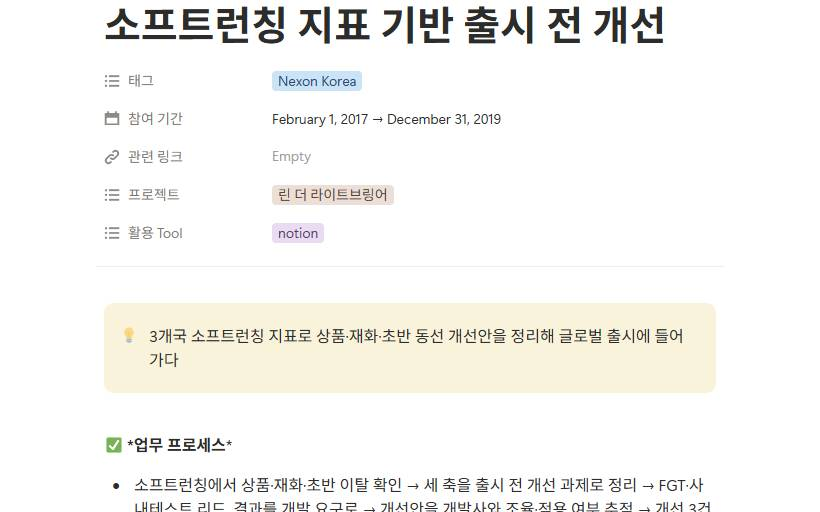
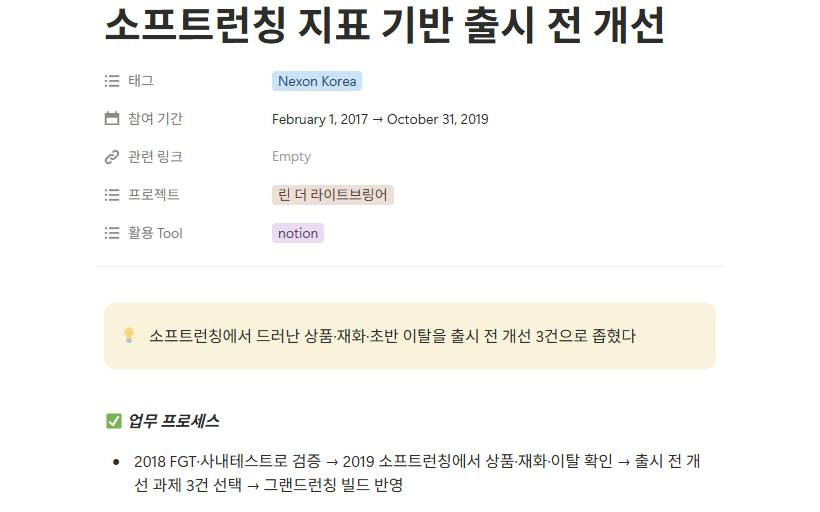
WO-19 ② 카피·Notion 정정·근거 요약 (Codex R6 10~13)
- EN "both prototypes shipped" → "the events developed from these prototypes shipped"
  (시안 자체가 출시된 것처럼 읽혔다). EN 히어로 요약에 디렉터 협업 책임 문장 복원, 첫 문장을
  줄여 390 6줄 유지(KO 6줄)
- Notion 대표 사례 ④ 참여 기간 종료 2019-12-31 → 2019-10-31(재직 종료와 일치),
  ④⑤ 업무 프로세스 체인을 시간순으로(린 2018 테스트 → 2019 소프트런칭 → 개선 → 그랜드런칭 /
  나이트워커 연동 기획 → 2023-01 출시 → 프로모션 추가)
- 신규 5장의 💡 요약을 제목 반복 대신 "문제 → 선택 → 반영 결과" 전용 문장으로 고쳐 쓰고
  build-evidence 재실행(32/32) — KO 요약 37~46자·체인 77~87자, EN 요약 67~77자·체인 85~90자로
  카드 상한(80/90) 안에 들어와 결론 전에 말줄임이 나지 않는다
- 사례 상세창 제목은 앞 절만(KO 17~19자), 원고 전체 제목은 본문 첫 행 "한 줄 요약"으로 내렸다.
  빈 성과칸이 접히면서 상단 여백도 사라졌다. build-print의 행 수 검사도 7행으로

Claude-Session: https://claude.ai/code/session_01MgNpmvX4FuUabFS9uFy84n

Changed region(s): [[0.122, 0.625, 0.8841, 1.0], [0.4573, 0.2188, 0.6098, 0.25]]

diff --git a/site/en/index.html b/site/en/index.html
@@ -744,7 +744,7 @@ html.is-modal{overflow:hidden;padding-right:var(--sbw,0px)}
         <span class="line" style="--i:2"><span>into shipped work.</span></span>
       </h1>
 
-      <p class="hero-sub" data-reveal data-gate="ready" style="--rd:650ms">19 years in PC and mobile games — global launches and live ops. I turn user research and live metrics into product direction and dev priorities, and ran the dev milestones as a director. Lately I prototype events with AI and automate routine work.</p>
+      <p class="hero-sub" data-reveal data-gate="ready" style="--rd:650ms">19 years in games — global launches and live ops. I turn user research and live metrics into product direction and dev priorities, and as a director I ran dev milestones and cross-team work. Lately I prototype events with AI and automate routine work.</p>
 
       <ul class="hero-keys" data-reveal data-gate="ready" style="--rd:700ms" aria-label="Core strengths">
         <li>Product decisions & milestones</li>
@@ -934,7 +934,7 @@ html.is-modal{overflow:hidden;padding-right:var(--sbw,0px)}
           <div class="card-wm" aria-hidden="true">11→7</div>
           <div class="card-bot">
             <h3><button class="card-open" type="button" data-work="dalcom" aria-haspopup="dialog">Multi-title live operations and user-led product work<span class="sr-only"> View details</span><svg class="ic" aria-hidden="true"><use href="#i-arrup"/></svg></button></h3>
-            <p>Managed live game design and the dev milestones while the titles I owned went from 11 to 7. Turned the satisfaction survey into the 2026 product direction and into webview and decoration event prototypes — both prototypes shipped.</p>
+            <p>Managed live game design and the dev milestones while the titles I owned went from 11 to 7. Turned the satisfaction survey into the 2026 product direction and into webview and decoration event prototypes — the events developed from these prototypes shipped.</p>
             <div class="card-tags"><span class="tag">Live Director</span><span class="tag">VOC → product direction</span><span class="tag">AI prototype</span><span class="tag">Dev milestones</span></div>
             <p class="card-rights">Game names and images are trademarks and copyrighted works of Dalcomsoft.</p>
           </div>
@@ -1745,9 +1745,10 @@ document.querySelectorAll('[data-notion-hub]').forEach(a => { a.href = NOTION_HU
 /* 내용은 팩트시트(2026-08-11)에서만. §1 직위 · §2 B1~B9 · §3 A2. 창작·추가 수치 금지. */
 const WORKS = {
   /* 대표 사례 3 — 원고 v0.5 공개 문안 그대로. 사례는 숫자가 아니라 서사라 s[]는 비운다. */
-  case1: { m:'Dalcomsoft · Live Game Design Team — Team Lead', t:'Turned the survey request for webview events into shipped in-game minigames and webview events',
+  case1: { m:'Dalcomsoft · Live Game Design Team — Team Lead', t:'From survey request to shipped events',
     s:[],
-    r:[['Period & role','Employed 2024.10 – 2026.07 · Team Lead, Live Game Design (live director) · case period: survey 2025.11 → launch 2026.05'],
+    r:[['In one line','Turned the survey request for webview events into shipped in-game minigames and webview events'],
+       ['Period & role','Employed 2024.10 – 2026.07 · Team Lead, Live Game Design (live director) · case period: survey 2025.11 → launch 2026.05'],
        ['Problem','In the November 2025 satisfaction survey across 6 titles (Korean, English, Japanese), IP satisfaction was high and players asked for the old webview events back. I took that on as an event improvement task.'],
        ['Decision','The order was to prepare and ship in-game minigames first, then extend to webview events.'],
        ['What I did','Minigames v1 and v2 rolled out title by title (v1 2025-12, v2 2026-01). For the decoration event timed to a new group launch I wrote the brief myself and built a working AI prototype for the pre-development review, then set the scope down to core features to fit the dev schedule. After that I built the SuperStar JYP Nation 10th anniversary webview event prototype.'],
@@ -1759,9 +1760,10 @@ const WORKS = {
     n:[{t:'From user research to shipped events (KO)', id:'3d559de7280481dba20ee12a62cb7d69'},
        {t:'Recurring product policy rework (KO)', id:'3d559de728048112b3c9ec7998d34e14'},
        {t:'Restructuring with design, QA and CS under one lead (KO)', id:'3d559de72804813fac33d543e20c1a0a'}] },
-  case2: { m:'Nexon Korea · Mobile Business Division — Team Lead', t:'Turned soft launch metrics from 3 markets into product, currency and early-flow fixes before the global launch',
+  case2: { m:'Nexon Korea · Mobile Business Division — Team Lead', t:'Soft launch metrics into pre-launch fixes',
     s:[],
-    r:[['Period & role','Team Lead, Mobile Business Division, Nexon Korea (employed 2015.07 – 2019.10) · Lyn business PM 2017.02 – 2019 (developer collaboration, build coordination)'],
+    r:[['In one line','Turned soft launch metrics from 3 markets into product, currency and early-flow fixes before the global launch'],
+       ['Period & role','Team Lead, Mobile Business Division, Nexon Korea (employed 2015.07 – 2019.10) · Lyn business PM 2017.02 – 2019 (developer collaboration, build coordination)'],
        ['Problem','Bringing the developer build up to launch condition meant turning user tests and market metrics into development requests. The soft launch (Australia, Malaysia, the Philippines, 2019.01–02) showed an unbalanced product mix, slow paid-gem spending and early drop-off.'],
        ['Decision','I framed product mix, currency loop and early flow as fixes to close before launch, and set the product direction by benchmarking a comparable title (Langrisser).'],
        ['What I did','As business team lead I ran the FGT (2018.06–07, testers selected against 10 competing titles) and the internal test (2018.11, 3 days) and turned the results into development requests. After the soft launch I wrote up the product, currency and early-flow fixes and aligned them with the developer.'],
@@ -1769,9 +1771,10 @@ const WORKS = {
        ['Evidence','Notion "In-game improvement proposal" · soft launch metrics report (business team, not public) · FGT satisfaction data and internal test report (business team, not public)']],
     n:[{t:'Soft launch metrics into pre-launch fixes (KO)', id:'3d559de72804810faa75ca85ef0a25a0'},
        {t:'In-game improvements', id:'09624ec9cbdb4dd9a53085f168bfcfa7'}] },
-  case3: { m:'Wonderpeople/Acestorm · Business Team — Part Lead', t:'Redefined the payment and server-select flows of the China service to the Korean publisher spec',
+  case3: { m:'Wonderpeople/Acestorm · Business Team — Part Lead', t:'China service flows to the Korean spec',
     s:[],
-    r:[['Period & role','2022.02 – 2024.04 · Part Lead, Business Team, Wonderpeople/Acestorm · Night Walker Korea (publisher: Nexon), business and publishing integration'],
+    r:[['In one line','Redefined the payment and server-select flows of the China service to the Korean publisher spec'],
+       ['Period & role','2022.02 – 2024.04 · Part Lead, Business Team, Wonderpeople/Acestorm · Night Walker Korea (publisher: Nexon), business and publishing integration'],
        ['Problem','The paid-currency purchase system and the SDK-based server-select flow from the China service had to be reworked for Korea, and the systems had to be defined against the publisher payment, coupon and server policies.'],
        ['Decision','Taking the publisher policy and the internal API docs as the baseline, I redefined the UI/UX and the user flow of all three systems — paid-currency purchase, coupons and server select — to the Korean spec.'],
        ['What I did','I wrote the paid-currency purchase integration design, the coupon feature definition and the server-select UI/flow design, and aligned them with the publisher and the dev team. After launch I analyzed weekly sales to propose products and used live metrics to propose fixes for player hurdles.'],
@@ -1787,7 +1790,7 @@ const WORKS = {
     r:[['Lead case','Connected the survey request for webview events to shipped in-game minigames → the decoration event → the 10th anniversary webview event. The full story is in the cases section above.'],
        ['Live portfolio','Audited the 11 projects I inherited, ran 5 sunsets alongside the new SSWO launch, and operated the final 7'],
        ['User research','Satisfaction survey across 6 titles in Korean, English and Japanese — turned user needs and pain points into product improvement tasks and proposed the H1 2026 direction'],
-       ['Prototype','Decoration event design and wireframe · SuperStar JYP Nation 10th anniversary interactive webview prototype — both prototypes shipped'],
+       ['Prototype','Decoration event design and wireframe · SuperStar JYP Nation 10th anniversary interactive webview prototype — the events developed from these prototypes shipped'],
        ['Automation & process','Auto-synced store product ID specs (Google Apps Script) · SKU automation across 7 projects · unified mail/Slack/Notion work dashboard · automated SM music settlement'],
        ['Risk management','Blocked product abuse the same day and closed clawback and compensation in a single approval · documented a 5-step follow-up SOP']],
     n:[{t:'From user research to shipped events (KO)', id:'3d559de7280481dba20ee12a62cb7d69'},

diff --git a/site/index.html b/site/index.html
@@ -1745,9 +1745,10 @@ document.querySelectorAll('[data-notion-hub]').forEach(a => { a.href = NOTION_HU
 /* 내용은 팩트시트(2026-08-11)에서만. §1 직위 · §2 B1~B9 · §3 A2. 창작·추가 수치 금지. */
 const WORKS = {
   /* 대표 사례 3 — 원고 v0.5 공개 문안 그대로. 사례는 숫자가 아니라 서사라 s[]는 비운다. */
-  case1: { m:'달콤소프트 · 라이브기획팀 — 팀장', t:'만족도 조사의 웹뷰 이벤트 복귀 요구를 인게임 미니게임과 웹뷰 이벤트 출시로 연결하다',
+  case1: { m:'달콤소프트 · 라이브기획팀 — 팀장', t:'만족도 조사 요구를 실제 출시로',
     s:[],
-    r:[['기간·역할','재직 2024.10 – 2026.07 · 라이브기획팀 팀장(라이브 디렉터) · 사건 기간 2025.11 조사 → 2026.05 출시'],
+    r:[['한 줄 요약','만족도 조사의 웹뷰 이벤트 복귀 요구를 인게임 미니게임과 웹뷰 이벤트 출시로 연결하다'],
+       ['기간·역할','재직 2024.10 – 2026.07 · 라이브기획팀 팀장(라이브 디렉터) · 사건 기간 2025.11 조사 → 2026.05 출시'],
        ['문제','2025년 11월 6개 타이틀(한·영·일) 만족도 조사에서 IP 만족도는 높았고, 예전에 있던 웹뷰 이벤트의 복귀 요구가 나왔다. 이를 이벤트 개선 과제로 다뤘다.'],
        ['판단','먼저 인게임 미니게임을 준비·적용하고, 이후 웹뷰 이벤트로 확장하는 순서로 갔다.'],
        ['본인 행동','미니게임 v1·v2는 타이틀별로 순차 적용됐다(v1 2025-12, v2 2026-01). 신규 그룹 런칭에 맞춘 꾸미기 이벤트는 기획서 초안을 직접 쓰고 AI로 작동하는 프로토타입을 만들어 개발 전 협의에 썼고, 개발 일정에 맞춰 핵심 기능만 남기는 범위를 정했다. 이어서 SuperStar JYP Nation 10주년 웹뷰 이벤트 프로토타입을 제작했다.'],
@@ -1759,9 +1760,10 @@ const WORKS = {
     n:[{t:'사용자 조사 기반 이벤트 복귀', id:'3d559de7280481dba20ee12a62cb7d69'},
        {t:'정기 상품 정책 개편 제안', id:'3d559de728048112b3c9ec7998d34e14'},
        {t:'조직 재편과 기획·QA·CS 통합 운영', id:'3d559de72804813fac33d543e20c1a0a'}] },
-  case2: { m:'넥슨 코리아 · 모바일사업실 — 팀장', t:'3개국 소프트런칭 지표로 상품·재화·초반 동선 개선안을 정리해 글로벌 출시에 들어가다',
+  case2: { m:'넥슨 코리아 · 모바일사업실 — 팀장', t:'소프트런칭 지표를 출시 전 개선으로',
     s:[],
-    r:[['기간·역할','넥슨 코리아 모바일사업실 팀장(재직 2015.07 – 2019.10) · 린 사업 PM 참여 2017.02 – 2019 (개발사 협업, 빌드 코디네이션)'],
+    r:[['한 줄 요약','3개국 소프트런칭 지표로 상품·재화·초반 동선 개선안을 정리해 글로벌 출시에 들어가다'],
+       ['기간·역할','넥슨 코리아 모바일사업실 팀장(재직 2015.07 – 2019.10) · 린 사업 PM 참여 2017.02 – 2019 (개발사 협업, 빌드 코디네이션)'],
        ['문제','개발사가 만드는 빌드를 출시 조건에 맞추려면 사용자 테스트와 시장 지표를 개발 요구로 바꿔야 했다. 소프트런칭(호주·말레이시아·필리핀, 2019.01~02)에서 상품 구성 불균형, 유료 다이아 소비 침체, 초반 이탈 문제를 확인했다.'],
        ['판단','상품 구성 · 재화 순환 · 초반 동선을 출시 전 개선 과제로 정리했다. 상품은 유사 장르(랑그릿사) 사례를 벤치마킹해 방향을 잡았다.'],
        ['본인 행동','FGT(2018.06~07, 경쟁작 10종 기준 테스터 선발)와 사내테스트(2018.11, 3일)를 사업팀장으로 이끌고 결과를 개발 요구로 정리했다. 소프트런칭 뒤 상품·재화·초반 동선 개선안을 정리하고 개발사와 조율했다.'],
@@ -1769,9 +1771,10 @@ const WORKS = {
        ['증거','Notion 「인게임 개선 제안」 · 소프트런칭 지표보고(사업팀, 비공개) · FGT 만족도 데이터·사내테스트 결과보고(사업팀, 비공개)']],
     n:[{t:'소프트런칭 지표 기반 출시 전 개선', id:'3d559de72804810faa75ca85ef0a25a0'},
        {t:'인게임 개선 진행', id:'09624ec9cbdb4dd9a53085f168bfcfa7'}] },
-  case3: { m:'원더피플/에이스톰 · 사업팀 — 파트장', t:'중국 서비스의 결제·서버 선택 흐름을 한국 퍼블리셔 규격으로 다시 정의하다',
+  case3: { m:'원더피플/에이스톰 · 사업팀 — 파트장', t:'중국 서비스 흐름을 한국 규격으로',
     s:[],
-    r:[['기간·역할','2022.02 – 2024.04 · 원더피플/에이스톰 사업팀 파트장 · 나이트워커 한국 서비스(퍼블리셔 넥슨) 사업·퍼블리싱 연동'],
+    r:[['한 줄 요약','중국 서비스의 결제·서버 선택 흐름을 한국 퍼블리셔 규격으로 다시 정의하다'],
+       ['기간·역할','2022.02 – 2024.04 · 원더피플/에이스톰 사업팀 파트장 · 나이트워커 한국 서비스(퍼블리셔 넥슨) 사업·퍼블리싱 연동'],
        ['문제','중국 서비스의 유료 재화 구매 시스템과 SDK 기반 서버 선택 흐름을 한국 서비스에 맞게 변경해야 했다. 퍼블리셔의 결제·쿠폰·서버 정책에 맞는 시스템 정의가 필요했다.'],
        ['판단','퍼블리셔 정책과 내부 API 문서를 기준으로 삼아, 유료 재화 구매·쿠폰·서버 선택 세 시스템의 UI/UX와 이용 흐름을 한국 규격으로 다시 정의했다.'],
        ['본인 행동','유료 재화 구매 시스템 연동 기획, 쿠폰 시스템 기능 정의, 서버 선택창 UI/플로우 기획을 작성해 퍼블리셔·개발과 협의했다. 런칭 후 주간 판매 현황을 분석해 상품을 제안하고 라이브 지표로 허들 개선을 제안했다.'],
